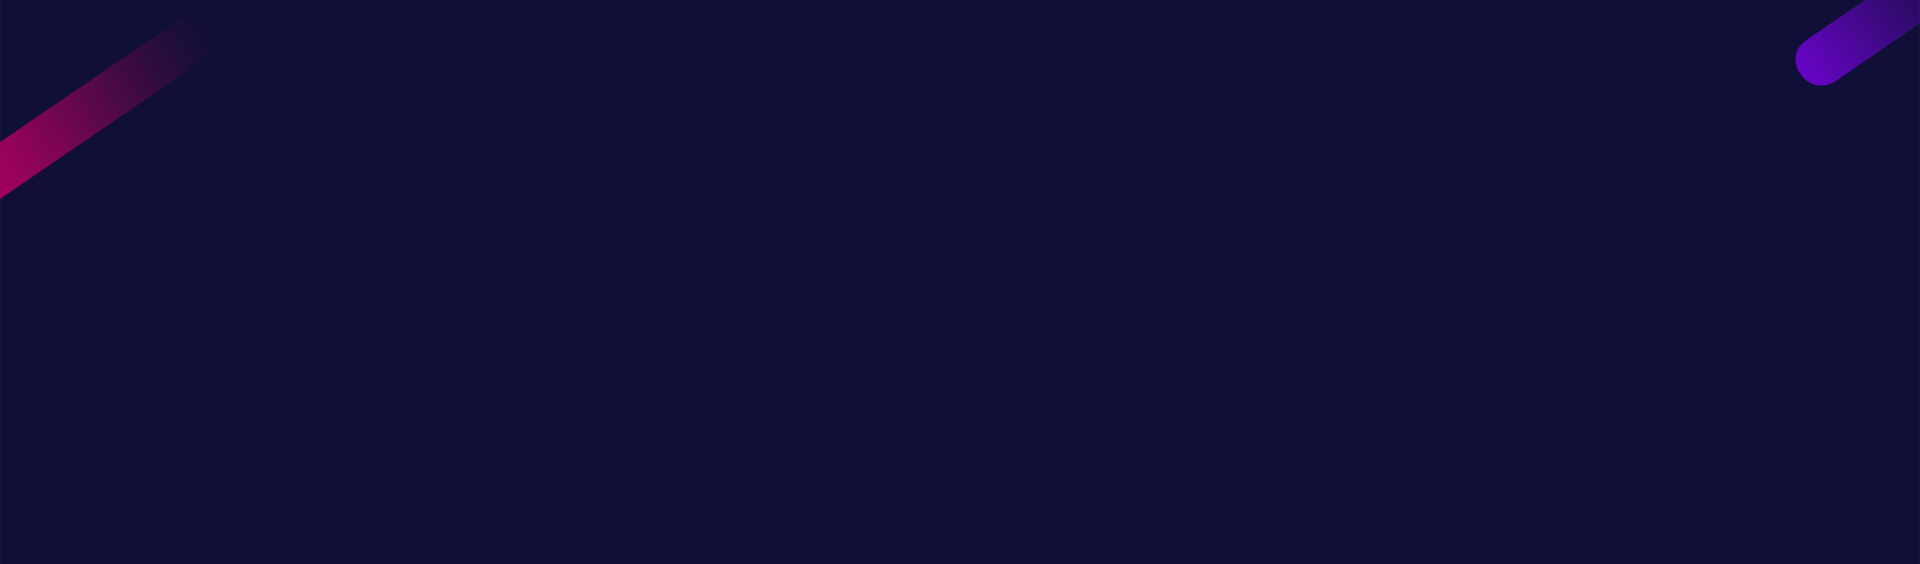
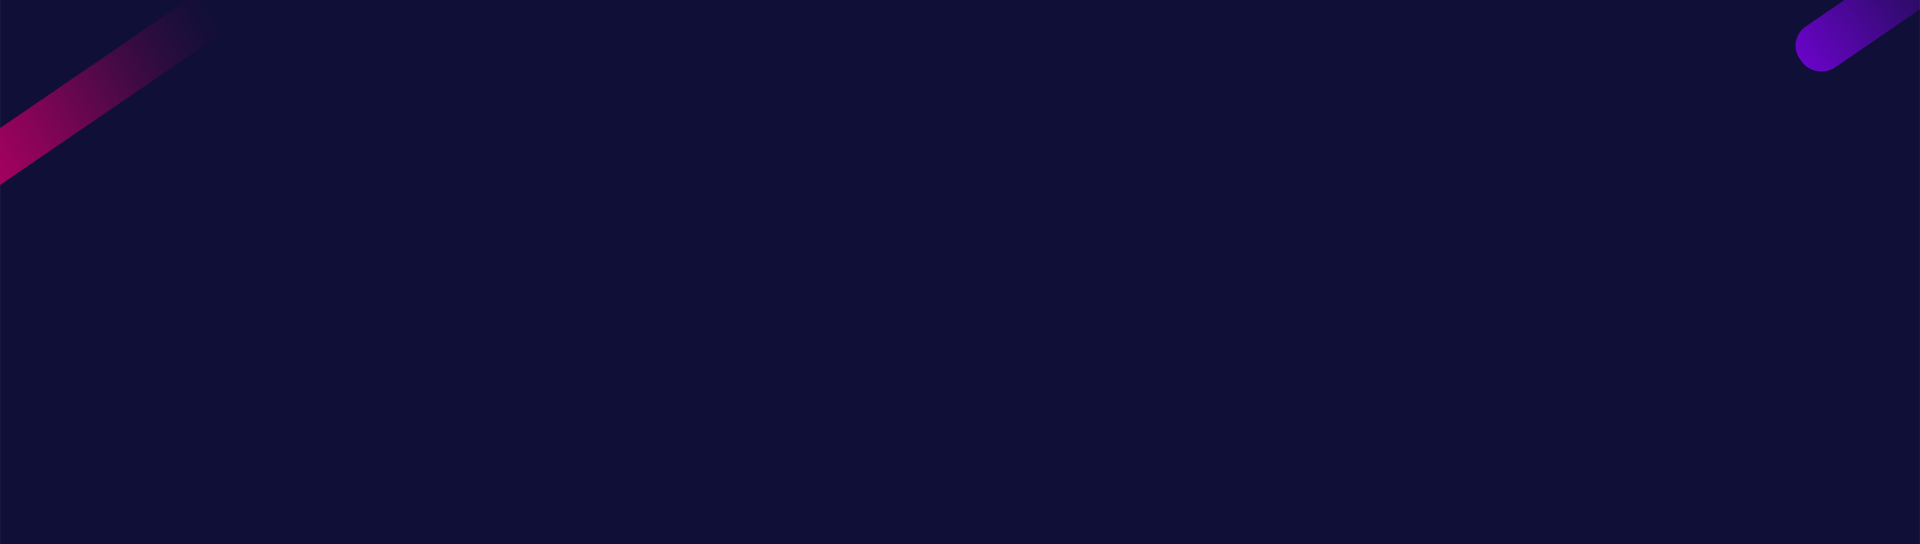
201709060129

diff --git a/css/sell.css b/css/sell.css
@@ -18,7 +18,7 @@ html,body{
 .bannerCon1{
 	background:url(../images/sell/banner1.png) top center no-repeat;
 	margin:auto;
-	height: 439px;
+	height: 407px;
 }
 
 .bannerC1Iner{
@@ -44,7 +44,7 @@ html,body{
 
 .bannerCon2{
 	background:url(../images/sell/banner2.png) 0 0 no-repeat;
-	height: 456px;
+	height: 480px;
 }
 
 .bannerC2Title{
@@ -57,7 +57,7 @@ html,body{
 
 .bannerCon3{
 	background:url(../images/sell/banner3.png) 0 0 no-repeat;
-	height: 564px;
+	height: 544px;
 }
 
 .bannerC3Title{
